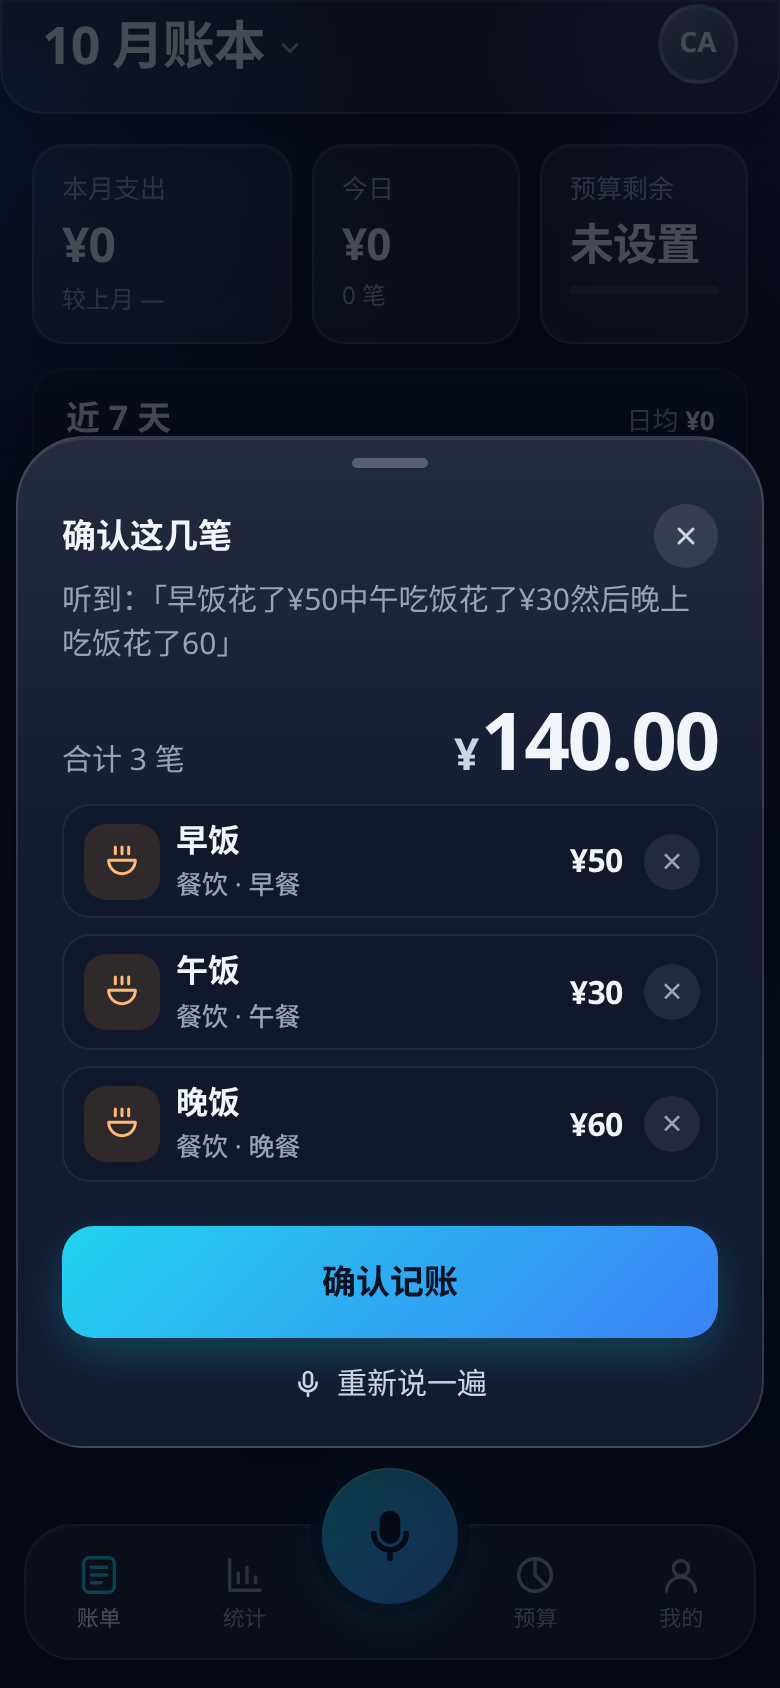
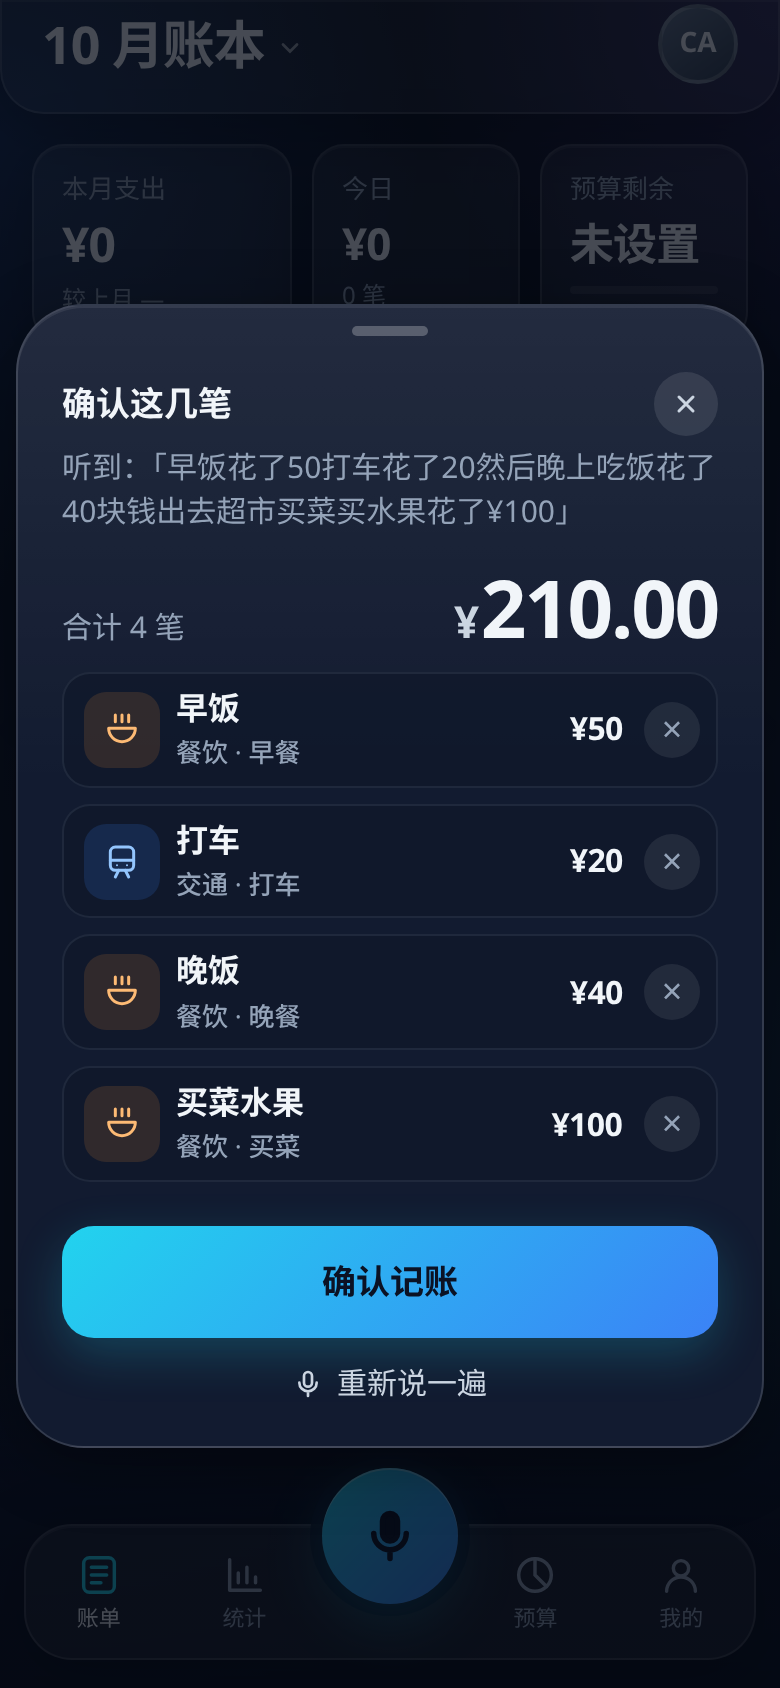
Shorten grocery notes and file them under 餐饮.
A trip to the supermarket becomes 买菜水果 instead of the whole clause, and produce stays out of 购物 · 日用.

diff --git a/lib/categories.ts b/lib/categories.ts
@@ -27,7 +27,7 @@ export const CATEGORY_ORDER: CategoryId[] = [
 ];
 
 export const SUBCATEGORIES: Record<CategoryId, readonly string[]> = {
-  food: ["早餐", "午餐", "晚餐", "夜宵", "咖啡饮品", "零食"],
+  food: ["早餐", "午餐", "晚餐", "夜宵", "咖啡饮品", "零食", "买菜", "水果"],
   transit: ["打车", "地铁公交", "加油", "停车"],
   shopping: ["日用", "服饰", "数码"],
   fun: ["电影演出", "游戏", "其他"],
@@ -72,6 +72,64 @@ function food(title: string, subcategory: string): Classified {
   return { category: "food", subcategory, title };
 }
 
+const FILLER_WORDS = [
+  "出去",
+  "然后",
+  "接着",
+  "以及",
+  "还有",
+  "另外",
+  "再来",
+  "花了",
+  "付了",
+  "支付了",
+  "花费",
+  "支付",
+  "用了",
+  "一共",
+  "人民币",
+  "买了",
+  "一点",
+  "一些",
+];
+
+/** A short note: drop the trip and the verb, keep the thing that was bought. */
+export function shortenTitle(text: string): string {
+  let value = text.replace(/[，。,.、！!？?\s]/g, "");
+  let previous = "";
+  while (value !== previous) {
+    previous = value;
+    for (const word of FILLER_WORDS) value = value.replaceAll(word, "");
+    value = value.replace(/^(?:去|到|还|又|再|和|跟|的|了|些)+/, "");
+    value = value.replace(/(?:的|了|些)+$/, "");
+    value = value.replace(/点(?!心)/g, "");
+  }
+
+  value = value.replace(/超市|商场|淘宝|菜市场/g, (place, index, whole) => {
+    const rest = (whole.slice(0, index) + whole.slice(index + place.length)).replace(/买|和|跟|的/g, "");
+    return rest ? "" : place;
+  });
+
+  if (value.split("买").length > 2) {
+    value = `买${value.split("买").filter(Boolean).join("")}`;
+  }
+  value = value.replace(/吃饭/g, "饭");
+  value = value.replace(/^买(?=日用|衣服|服饰|鞋|纸巾|洗发|洗衣|数码|手机|电脑)/, "");
+  if (value === "菜市场") value = "买菜";
+  if ([...value].length > 6) value = [...value].slice(0, 6).join("");
+  return value;
+}
+
+function fruitOnly(text: string): boolean {
+  if (!/水果/.test(text)) return false;
+  return !/买菜|蔬菜|肉|菜市场|生鲜|菜/.test(text.replace(/水果/g, ""));
+}
+
+function finish(result: Classified): Classified {
+  const title = shortenTitle(result.title);
+  return { ...result, title: title || result.subcategory || "其他" };
+}
+
 export function classifyClause(text: string, now: Date): Classified {
   const title = text.trim();
   if (!title) return { category: "other", subcategory: "其他", title: "其他" };
@@ -85,34 +143,36 @@ export function classifyClause(text: string, now: Date): Classified {
   if (/晚饭/.test(title)) return food("晚饭", "晚餐");
   if (/晚餐/.test(title)) return food("晚餐", "晚餐");
   if (/晚上/.test(title)) return food("晚饭", "晚餐");
-  if (/吃饭/.test(title)) {
+  if (/吃了?饭/.test(title)) {
     const meal = mealFromHour(now.getHours());
     return food(meal.title, meal.subcategory);
   }
-  if (/咖啡|奶茶/.test(title)) return food(title, "咖啡饮品");
-  if (/外卖|餐厅/.test(title)) return food(title, mealFromHour(now.getHours()).subcategory);
-  if (/零食|甜品|蛋糕/.test(title)) return food(title, "零食");
+  if (/咖啡|奶茶/.test(title)) return finish(food(title, "咖啡饮品"));
+  if (/外卖|餐厅/.test(title)) return finish(food(title, mealFromHour(now.getHours()).subcategory));
+  if (/零食|甜品|蛋糕/.test(title)) return finish(food(title, "零食"));
 
-  if (/打车|出租/.test(title)) return { category: "transit", subcategory: "打车", title };
-  if (/地铁|公交/.test(title)) return { category: "transit", subcategory: "地铁公交", title };
-  if (/加油/.test(title)) return { category: "transit", subcategory: "加油", title };
-  if (/停车/.test(title)) return { category: "transit", subcategory: "停车", title };
-  if (/高铁|火车|机票/.test(title)) return { category: "transit", subcategory: "交通", title };
+  if (/打车|出租/.test(title)) return finish({ category: "transit", subcategory: "打车", title });
+  if (/地铁|公交/.test(title)) return finish({ category: "transit", subcategory: "地铁公交", title });
+  if (/加油/.test(title)) return finish({ category: "transit", subcategory: "加油", title });
+  if (/停车/.test(title)) return finish({ category: "transit", subcategory: "停车", title });
+  if (/高铁|火车|机票/.test(title)) return finish({ category: "transit", subcategory: "交通", title });
 
-  if (/电影|演出|门票/.test(title)) return { category: "fun", subcategory: "电影演出", title };
-  if (/游戏/.test(title)) return { category: "fun", subcategory: "游戏", title };
+  if (/电影|演出|门票/.test(title)) return finish({ category: "fun", subcategory: "电影演出", title });
+  if (/游戏/.test(title)) return finish({ category: "fun", subcategory: "游戏", title });
 
-  if (/药/.test(title)) return { category: "health", subcategory: "药品", title };
-  if (/医院|挂号|诊所/.test(title)) return { category: "health", subcategory: "就医", title };
+  if (/药/.test(title)) return finish({ category: "health", subcategory: "药品", title });
+  if (/医院|挂号|诊所/.test(title)) return finish({ category: "health", subcategory: "就医", title });
 
-  if (/房租|水电|燃气|宽带/.test(title)) return { category: "home", subcategory: "房租水电", title };
-  if (/物业/.test(title)) return { category: "home", subcategory: "物业", title };
+  if (/房租|水电|燃气|宽带/.test(title)) return finish({ category: "home", subcategory: "房租水电", title });
+  if (/物业/.test(title)) return finish({ category: "home", subcategory: "物业", title });
 
-  if (/衣服|服饰|鞋/.test(title)) return { category: "shopping", subcategory: "服饰", title };
-  if (/数码|手机|电脑/.test(title)) return { category: "shopping", subcategory: "数码", title };
-  if (/日用|纸巾|洗发|洗衣|超市|买菜|水果|购物/.test(title)) {
-    return { category: "shopping", subcategory: "日用", title };
-  }
+  if (/衣服|服饰|鞋/.test(title)) return finish({ category: "shopping", subcategory: "服饰", title });
+  if (/数码|手机|电脑/.test(title)) return finish({ category: "shopping", subcategory: "数码", title });
+  if (/日用|纸巾|洗发|洗衣/.test(title)) return finish({ category: "shopping", subcategory: "日用", title });
 
-  return { category: "other", subcategory: "其他", title };
+  if (fruitOnly(title)) return finish(food(title, "水果"));
+  if (/买菜|蔬菜|水果|肉|菜市场|生鲜/.test(title)) return finish(food(title, "买菜"));
+  if (/购物|超市|商场|淘宝/.test(title)) return finish({ category: "shopping", subcategory: "日用", title });
+
+  return finish({ category: "other", subcategory: "其他", title });
 }

diff --git a/lib/parse-transcript.test.ts b/lib/parse-transcript.test.ts
@@ -24,7 +24,7 @@ test("parses the demo phrases used by speech", () => {
   expectOne("午饭三十八块", { amount: 38, title: "午饭", category: "food", subcategory: "午餐" });
   expectOne("打车十五块五", { amount: 15.5, title: "打车", category: "transit", subcategory: "打车" });
   expectOne("咖啡二十八", { amount: 28, title: "咖啡", category: "food", subcategory: "咖啡饮品" });
-  expectOne("超市买菜六十二块三", { amount: 62.3, title: "超市买菜", category: "shopping", subcategory: "日用" });
+  expectOne("超市买菜六十二块三", { amount: 62.3, title: "买菜", category: "food", subcategory: "买菜" });
   expectOne("地铁四块", { amount: 4, title: "地铁", category: "transit", subcategory: "地铁公交" });
   expectOne("电影票七十八", { amount: 78, title: "电影票", category: "fun", subcategory: "电影演出" });
 });
@@ -39,7 +39,7 @@ test("parses more spoken amounts and categories", () => {
   expectOne("两百块", { amount: 200, title: "其他", category: "other", subcategory: "其他" });
   expectOne("一百零五块", { amount: 105, title: "其他", category: "other", subcategory: "其他" });
   expectOne("两块五", { amount: 2.5, title: "其他", category: "other", subcategory: "其他" });
-  expectOne("买菜41.2元", { amount: 41.2, title: "买菜", category: "shopping", subcategory: "日用" });
+  expectOne("买菜41.2元", { amount: 41.2, title: "买菜", category: "food", subcategory: "买菜" });
 });
 
 test("reads colloquial Chinese numerals", () => {
@@ -121,6 +121,32 @@ test("uses the time of day when the meal is only 吃饭", () => {
   expectOne("吃饭花了二十", { amount: 20, title: "午饭", category: "food", subcategory: "午餐" }, new Date(2026, 9, 20, 12, 30, 0));
   expectOne("吃饭花了二十", { amount: 20, title: "晚饭", category: "food", subcategory: "晚餐" }, new Date(2026, 9, 20, 19, 0, 0));
   expectOne("吃饭花了二十", { amount: 20, title: "夜宵", category: "food", subcategory: "夜宵" }, new Date(2026, 9, 20, 23, 0, 0));
+});
+
+test("keeps grocery notes short and files them under 餐饮", () => {
+  const result = parseTranscript("早饭花了50打车花了20然后晚上吃饭花了40块钱出去超市买菜买水果花了¥100", NOON);
+  assert.equal(result.ok, true);
+  if (!result.ok) return;
+  assert.deepEqual(
+    result.entries.map((entry) => ({
+      title: entry.title,
+      amount: entry.amount,
+      category: entry.category,
+      subcategory: entry.subcategory,
+    })),
+    [
+      { title: "早饭", amount: 50, category: "food", subcategory: "早餐" },
+      { title: "打车", amount: 20, category: "transit", subcategory: "打车" },
+      { title: "晚饭", amount: 40, category: "food", subcategory: "晚餐" },
+      { title: "买菜水果", amount: 100, category: "food", subcategory: "买菜" },
+    ],
+  );
+  for (const entry of result.entries) assert.ok([...entry.title].length <= 6, entry.title);
+
+  expectOne("去超市买了点水果25", { amount: 25, title: "水果", category: "food", subcategory: "水果" });
+  expectOne("超市买日用品三十八", { amount: 38, title: "日用品", category: "shopping", subcategory: "日用" });
+  expectOne("蔬菜十二块", { amount: 12, title: "蔬菜", category: "food", subcategory: "买菜" });
+  expectOne("买菜买水果三十", { amount: 30, title: "买菜水果", category: "food", subcategory: "买菜" });
 });
 
 test("rejects phrases without a confident amount", () => {
